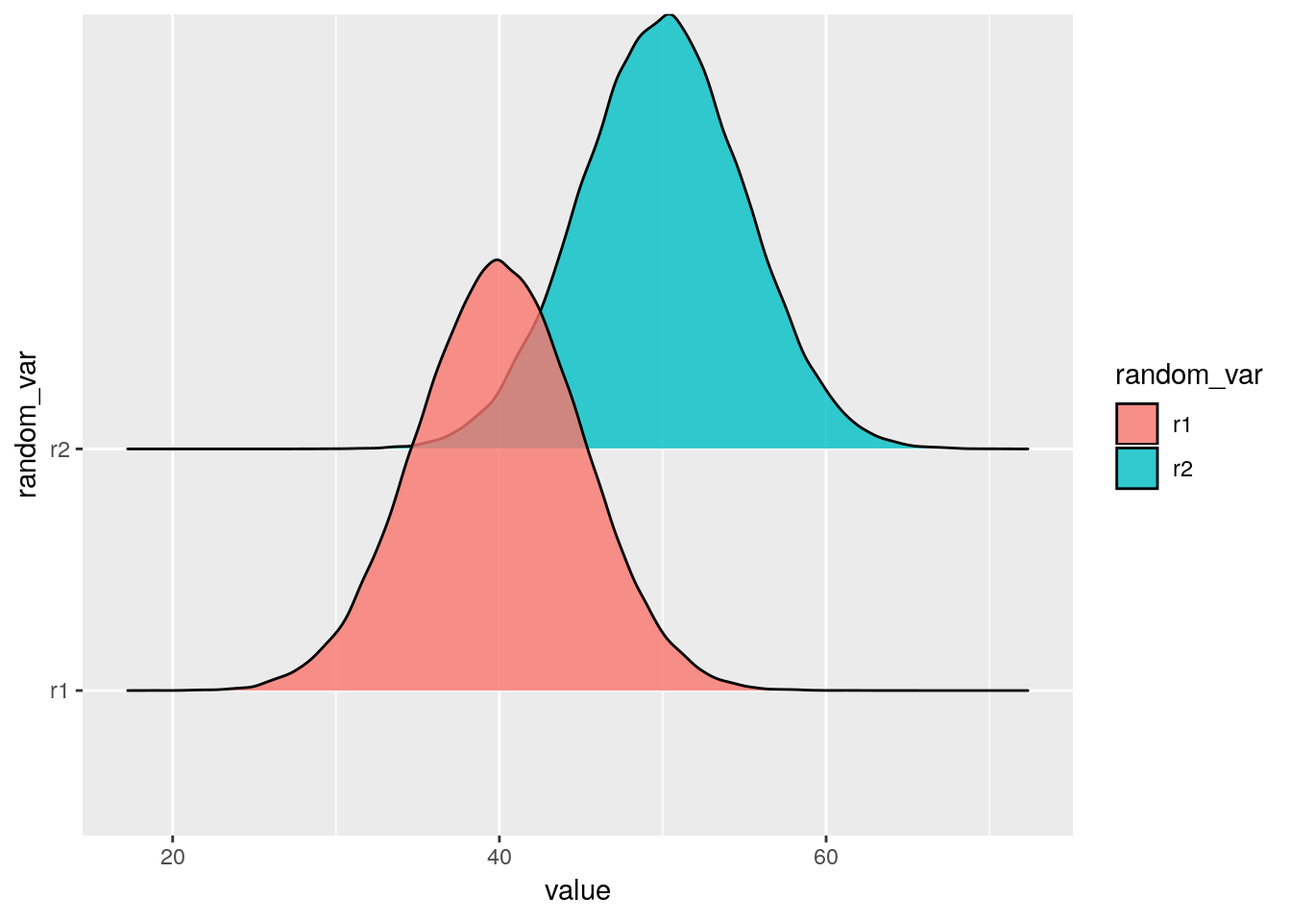
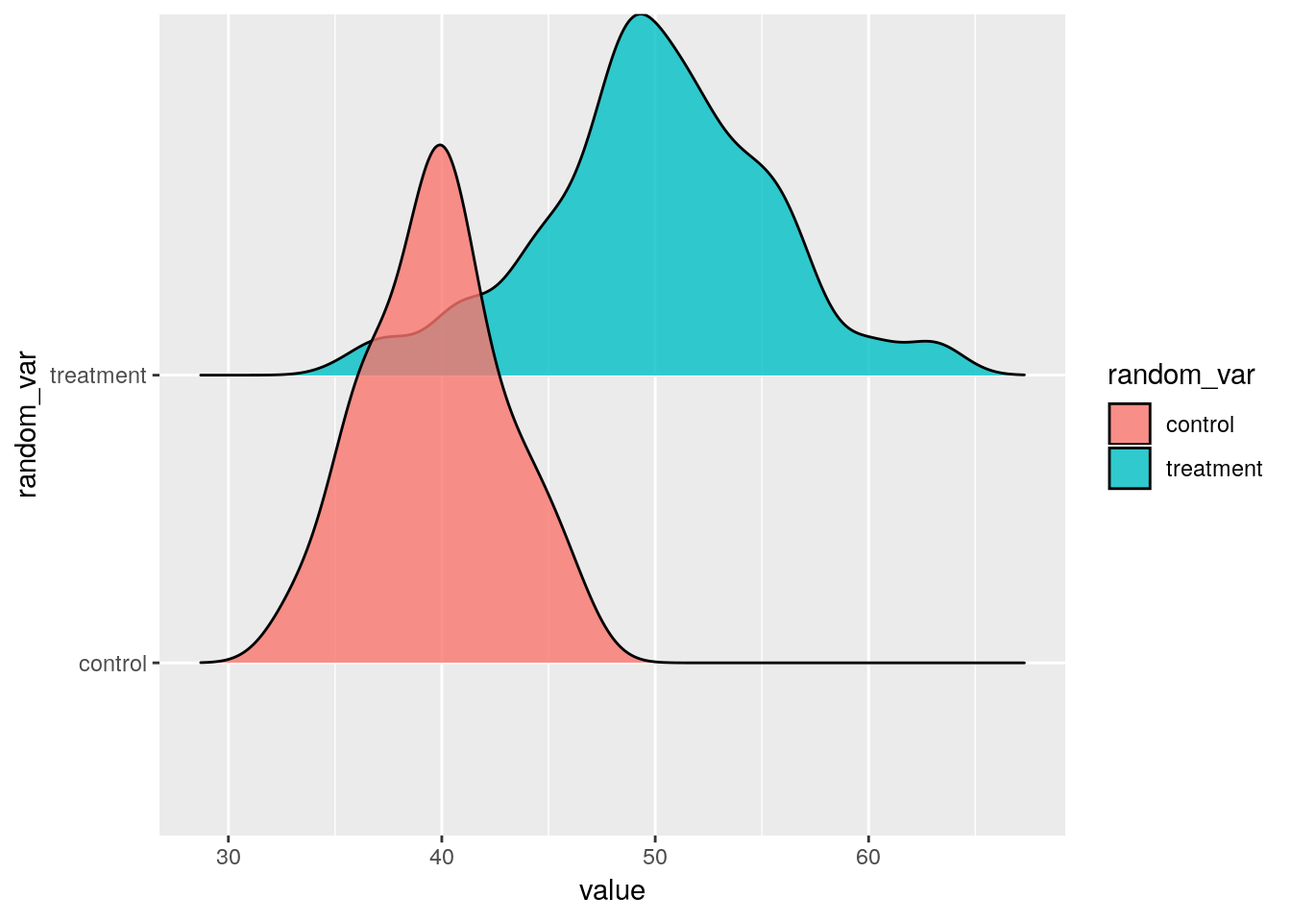
commit

diff --git a/public/rmarkdown-libs/plotly-binding/lib/typedarray (opoyserc@gmail.com)/typedarray.min.js b/public/rmarkdown-libs/plotly-binding/lib/typedarray (opoyserc@gmail.com)/typedarray.min.js
@@ -1,0 +1,1 @@
+(function(global){"use strict";var undefined=void 0;var MAX_ARRAY_LENGTH=1e5;function Type(v){switch(typeof v){case"undefined":return"undefined";case"boolean":return"boolean";case"number":return"number";case"string":return"string";default:return v===null?"null":"object"}}function Class(v){return Object.prototype.toString.call(v).replace(/^\[object *|\]$/g,"")}function IsCallable(o){return typeof o==="function"}function ToObject(v){if(v===null||v===undefined)throw TypeError();return Object(v)}function ToInt32(v){return v>>0}function ToUint32(v){return v>>>0}var LN2=Math.LN2,abs=Math.abs,floor=Math.floor,log=Math.log,max=Math.max,min=Math.min,pow=Math.pow,round=Math.round;(function(){var orig=Object.defineProperty;var dom_only=!function(){try{return Object.defineProperty({},"x",{})}catch(_){return false}}();if(!orig||dom_only){Object.defineProperty=function(o,prop,desc){if(orig)try{return orig(o,prop,desc)}catch(_){}if(o!==Object(o))throw TypeError("Object.defineProperty called on non-object");if(Object.prototype.__defineGetter__&&"get"in desc)Object.prototype.__defineGetter__.call(o,prop,desc.get);if(Object.prototype.__defineSetter__&&"set"in desc)Object.prototype.__defineSetter__.call(o,prop,desc.set);if("value"in desc)o[prop]=desc.value;return o}}})();function makeArrayAccessors(obj){if(obj.length>MAX_ARRAY_LENGTH)throw RangeError("Array too large for polyfill");function makeArrayAccessor(index){Object.defineProperty(obj,index,{get:function(){return obj._getter(index)},set:function(v){obj._setter(index,v)},enumerable:true,configurable:false})}var i;for(i=0;i<obj.length;i+=1){makeArrayAccessor(i)}}function as_signed(value,bits){var s=32-bits;return value<<s>>s}function as_unsigned(value,bits){var s=32-bits;return value<<s>>>s}function packI8(n){return[n&255]}function unpackI8(bytes){return as_signed(bytes[0],8)}function packU8(n){return[n&255]}function unpackU8(bytes){return as_unsigned(bytes[0],8)}function packU8Clamped(n){n=round(Number(n));return[n<0?0:n>255?255:n&255]}function packI16(n){return[n>>8&255,n&255]}function unpackI16(bytes){return as_signed(bytes[0]<<8|bytes[1],16)}function packU16(n){return[n>>8&255,n&255]}function unpackU16(bytes){return as_unsigned(bytes[0]<<8|bytes[1],16)}function packI32(n){return[n>>24&255,n>>16&255,n>>8&255,n&255]}function unpackI32(bytes){return as_signed(bytes[0]<<24|bytes[1]<<16|bytes[2]<<8|bytes[3],32)}function packU32(n){return[n>>24&255,n>>16&255,n>>8&255,n&255]}function unpackU32(bytes){return as_unsigned(bytes[0]<<24|bytes[1]<<16|bytes[2]<<8|bytes[3],32)}function packIEEE754(v,ebits,fbits){var bias=(1<<ebits-1)-1,s,e,f,ln,i,bits,str,bytes;function roundToEven(n){var w=floor(n),f=n-w;if(f<.5)return w;if(f>.5)return w+1;return w%2?w+1:w}if(v!==v){e=(1<<ebits)-1;f=pow(2,fbits-1);s=0}else if(v===Infinity||v===-Infinity){e=(1<<ebits)-1;f=0;s=v<0?1:0}else if(v===0){e=0;f=0;s=1/v===-Infinity?1:0}else{s=v<0;v=abs(v);if(v>=pow(2,1-bias)){e=min(floor(log(v)/LN2),1023);f=roundToEven(v/pow(2,e)*pow(2,fbits));if(f/pow(2,fbits)>=2){e=e+1;f=1}if(e>bias){e=(1<<ebits)-1;f=0}else{e=e+bias;f=f-pow(2,fbits)}}else{e=0;f=roundToEven(v/pow(2,1-bias-fbits))}}bits=[];for(i=fbits;i;i-=1){bits.push(f%2?1:0);f=floor(f/2)}for(i=ebits;i;i-=1){bits.push(e%2?1:0);e=floor(e/2)}bits.push(s?1:0);bits.reverse();str=bits.join("");bytes=[];while(str.length){bytes.push(parseInt(str.substring(0,8),2));str=str.substring(8)}return bytes}function unpackIEEE754(bytes,ebits,fbits){var bits=[],i,j,b,str,bias,s,e,f;for(i=bytes.length;i;i-=1){b=bytes[i-1];for(j=8;j;j-=1){bits.push(b%2?1:0);b=b>>1}}bits.reverse();str=bits.join("");bias=(1<<ebits-1)-1;s=parseInt(str.substring(0,1),2)?-1:1;e=parseInt(str.substring(1,1+ebits),2);f=parseInt(str.substring(1+ebits),2);if(e===(1<<ebits)-1){return f!==0?NaN:s*Infinity}else if(e>0){return s*pow(2,e-bias)*(1+f/pow(2,fbits))}else if(f!==0){return s*pow(2,-(bias-1))*(f/pow(2,fbits))}else{return s<0?-0:0}}function unpackF64(b){return unpackIEEE754(b,11,52)}function packF64(v){return packIEEE754(v,11,52)}function unpackF32(b){return unpackIEEE754(b,8,23)}function packF32(v){return packIEEE754(v,8,23)}(function(){function ArrayBuffer(length){length=ToInt32(length);if(length<0)throw RangeError("ArrayBuffer size is not a small enough positive integer.");Object.defineProperty(this,"byteLength",{value:length});Object.defineProperty(this,"_bytes",{value:Array(length)});for(var i=0;i<length;i+=1)this._bytes[i]=0}global.ArrayBuffer=global.ArrayBuffer||ArrayBuffer;function $TypedArray$(){if(!arguments.length||typeof arguments[0]!=="object"){return function(length){length=ToInt32(length);if(length<0)throw RangeError("length is not a small enough positive integer.");Object.defineProperty(this,"length",{value:length});Object.defineProperty(this,"byteLength",{value:length*this.BYTES_PER_ELEMENT});Object.defineProperty(this,"buffer",{value:new ArrayBuffer(this.byteLength)});Object.defineProperty(this,"byteOffset",{value:0})}.apply(this,arguments)}if(arguments.length>=1&&Type(arguments[0])==="object"&&arguments[0]instanceof $TypedArray$){return function(typedArray){if(this.constructor!==typedArray.constructor)throw TypeError();var byteLength=typedArray.length*this.BYTES_PER_ELEMENT;Object.defineProperty(this,"buffer",{value:new ArrayBuffer(byteLength)});Object.defineProperty(this,"byteLength",{value:byteLength});Object.defineProperty(this,"byteOffset",{value:0});Object.defineProperty(this,"length",{value:typedArray.length});for(var i=0;i<this.length;i+=1)this._setter(i,typedArray._getter(i))}.apply(this,arguments)}if(arguments.length>=1&&Type(arguments[0])==="object"&&!(arguments[0]instanceof $TypedArray$)&&!(arguments[0]instanceof ArrayBuffer||Class(arguments[0])==="ArrayBuffer")){return function(array){var byteLength=array.length*this.BYTES_PER_ELEMENT;Object.defineProperty(this,"buffer",{value:new ArrayBuffer(byteLength)});Object.defineProperty(this,"byteLength",{value:byteLength});Object.defineProperty(this,"byteOffset",{value:0});Object.defineProperty(this,"length",{value:array.length});for(var i=0;i<this.length;i+=1){var s=array[i];this._setter(i,Number(s))}}.apply(this,arguments)}if(arguments.length>=1&&Type(arguments[0])==="object"&&(arguments[0]instanceof ArrayBuffer||Class(arguments[0])==="ArrayBuffer")){return function(buffer,byteOffset,length){byteOffset=ToUint32(byteOffset);if(byteOffset>buffer.byteLength)throw RangeError("byteOffset out of range");if(byteOffset%this.BYTES_PER_ELEMENT)throw RangeError("buffer length minus the byteOffset is not a multiple of the element size.");if(length===undefined){var byteLength=buffer.byteLength-byteOffset;if(byteLength%this.BYTES_PER_ELEMENT)throw RangeError("length of buffer minus byteOffset not a multiple of the element size");length=byteLength/this.BYTES_PER_ELEMENT}else{length=ToUint32(length);byteLength=length*this.BYTES_PER_ELEMENT}if(byteOffset+byteLength>buffer.byteLength)throw RangeError("byteOffset and length reference an area beyond the end of the buffer");Object.defineProperty(this,"buffer",{value:buffer});Object.defineProperty(this,"byteLength",{value:byteLength});Object.defineProperty(this,"byteOffset",{value:byteOffset});Object.defineProperty(this,"length",{value:length})}.apply(this,arguments)}throw TypeError()}Object.defineProperty($TypedArray$,"from",{value:function(iterable){return new this(iterable)}});Object.defineProperty($TypedArray$,"of",{value:function(){return new this(arguments)}});var $TypedArrayPrototype$={};$TypedArray$.prototype=$TypedArrayPrototype$;Object.defineProperty($TypedArray$.prototype,"_getter",{value:function(index){if(arguments.length<1)throw SyntaxError("Not enough arguments");index=ToUint32(index);if(index>=this.length)return undefined;var bytes=[],i,o;for(i=0,o=this.byteOffset+index*this.BYTES_PER_ELEMENT;i<this.BYTES_PER_ELEMENT;i+=1,o+=1){bytes.push(this.buffer._bytes[o])}return this._unpack(bytes)}});Object.defineProperty($TypedArray$.prototype,"get",{value:$TypedArray$.prototype._getter});Object.defineProperty($TypedArray$.prototype,"_setter",{value:function(index,value){if(arguments.length<2)throw SyntaxError("Not enough arguments");index=ToUint32(index);if(index>=this.length)return;var bytes=this._pack(value),i,o;for(i=0,o=this.byteOffset+index*this.BYTES_PER_ELEMENT;i<this.BYTES_PER_ELEMENT;i+=1,o+=1){this.buffer._bytes[o]=bytes[i]}}});Object.defineProperty($TypedArray$.prototype,"constructor",{value:$TypedArray$});Object.defineProperty($TypedArray$.prototype,"copyWithin",{value:function(target,start){var end=arguments[2];var o=ToObject(this);var lenVal=o.length;var len=ToUint32(lenVal);len=max(len,0);var relativeTarget=ToInt32(target);var to;if(relativeTarget<0)to=max(len+relativeTarget,0);else to=min(relativeTarget,len);var relativeStart=ToInt32(start);var from;if(relativeStart<0)from=max(len+relativeStart,0);else from=min(relativeStart,len);var relativeEnd;if(end===undefined)relativeEnd=len;else relativeEnd=ToInt32(end);var final;if(relativeEnd<0)final=max(len+relativeEnd,0);else final=min(relativeEnd,len);var count=min(final-from,len-to);var direction;if(from<to&&to<from+count){direction=-1;from=from+count-1;to=to+count-1}else{direction=1}while(count>0){o._setter(to,o._getter(from));from=from+direction;to=to+direction;count=count-1}return o}});Object.defineProperty($TypedArray$.prototype,"every",{value:function(callbackfn){if(this===undefined||this===null)throw TypeError();var t=Object(this);var len=ToUint32(t.length);if(!IsCallable(callbackfn))throw TypeError();var thisArg=arguments[1];for(var i=0;i<len;i++){if(!callbackfn.call(thisArg,t._getter(i),i,t))return false}return true}});Object.defineProperty($TypedArray$.prototype,"fill",{value:function(value){var start=arguments[1],end=arguments[2];var o=ToObject(this);var lenVal=o.length;var len=ToUint32(lenVal);len=max(len,0);var relativeStart=ToInt32(start);var k;if(relativeStart<0)k=max(len+relativeStart,0);else k=min(relativeStart,len);var relativeEnd;if(end===undefined)relativeEnd=len;else relativeEnd=ToInt32(end);var final;if(relativeEnd<0)final=max(len+relativeEnd,0);else final=min(relativeEnd,len);while(k<final){o._setter(k,value);k+=1}return o}});Object.defineProperty($TypedArray$.prototype,"filter",{value:function(callbackfn){if(this===undefined||this===null)throw TypeError();var t=Object(this);var len=ToUint32(t.length);if(!IsCallable(callbackfn))throw TypeError();var res=[];var thisp=arguments[1];for(var i=0;i<len;i++){var val=t._getter(i);if(callbackfn.call(thisp,val,i,t))res.push(val)}return new this.constructor(res)}});Object.defineProperty($TypedArray$.prototype,"find",{value:function(predicate){var o=ToObject(this);var lenValue=o.length;var len=ToUint32(lenValue);if(!IsCallable(predicate))throw TypeError();var t=arguments.length>1?arguments[1]:undefined;var k=0;while(k<len){var kValue=o._getter(k);var testResult=predicate.call(t,kValue,k,o);if(Boolean(testResult))return kValue;++k}return undefined}});Object.defineProperty($TypedArray$.prototype,"findIndex",{value:function(predicate){var o=ToObject(this);var lenValue=o.length;var len=ToUint32(lenValue);if(!IsCallable(predicate))throw TypeError();var t=arguments.length>1?arguments[1]:undefined;var k=0;while(k<len){var kValue=o._getter(k);var testResult=predicate.call(t,kValue,k,o);if(Boolean(testResult))return k;++k}return-1}});Object.defineProperty($TypedArray$.prototype,"forEach",{value:function(callbackfn){if(this===undefined||this===null)throw TypeError();var t=Object(this);var len=ToUint32(t.length);if(!IsCallable(callbackfn))throw TypeError();var thisp=arguments[1];for(var i=0;i<len;i++)callbackfn.call(thisp,t._getter(i),i,t)}});Object.defineProperty($TypedArray$.prototype,"indexOf",{value:function(searchElement){if(this===undefined||this===null)throw TypeError();var t=Object(this);var len=ToUint32(t.length);if(len===0)return-1;var n=0;if(arguments.length>0){n=Number(arguments[1]);if(n!==n){n=0}else if(n!==0&&n!==1/0&&n!==-(1/0)){n=(n>0||-1)*floor(abs(n))}}if(n>=len)return-1;var k=n>=0?n:max(len-abs(n),0);for(;k<len;k++){if(t._getter(k)===searchElement){return k}}return-1}});Object.defineProperty($TypedArray$.prototype,"join",{value:function(separator){if(this===undefined||this===null)throw TypeError();var t=Object(this);var len=ToUint32(t.length);var tmp=Array(len);for(var i=0;i<len;++i)tmp[i]=t._getter(i);return tmp.join(separator===undefined?",":separator)}});Object.defineProperty($TypedArray$.prototype,"lastIndexOf",{value:function(searchElement){if(this===undefined||this===null)throw TypeError();var t=Object(this);var len=ToUint32(t.length);if(len===0)return-1;var n=len;if(arguments.length>1){n=Number(arguments[1]);if(n!==n){n=0}else if(n!==0&&n!==1/0&&n!==-(1/0)){n=(n>0||-1)*floor(abs(n))}}var k=n>=0?min(n,len-1):len-abs(n);for(;k>=0;k--){if(t._getter(k)===searchElement)return k}return-1}});Object.defineProperty($TypedArray$.prototype,"map",{value:function(callbackfn){if(this===undefined||this===null)throw TypeError();var t=Object(this);var len=ToUint32(t.length);if(!IsCallable(callbackfn))throw TypeError();var res=[];res.length=len;var thisp=arguments[1];for(var i=0;i<len;i++)res[i]=callbackfn.call(thisp,t._getter(i),i,t);return new this.constructor(res)}});Object.defineProperty($TypedArray$.prototype,"reduce",{value:function(callbackfn){if(this===undefined||this===null)throw TypeError();var t=Object(this);var len=ToUint32(t.length);if(!IsCallable(callbackfn))throw TypeError();if(len===0&&arguments.length===1)throw TypeError();var k=0;var accumulator;if(arguments.length>=2){accumulator=arguments[1]}else{accumulator=t._getter(k++)}while(k<len){accumulator=callbackfn.call(undefined,accumulator,t._getter(k),k,t);k++}return accumulator}});Object.defineProperty($TypedArray$.prototype,"reduceRight",{value:function(callbackfn){if(this===undefined||this===null)throw TypeError();var t=Object(this);var len=ToUint32(t.length);if(!IsCallable(callbackfn))throw TypeError();if(len===0&&arguments.length===1)throw TypeError();var k=len-1;var accumulator;if(arguments.length>=2){accumulator=arguments[1]}else{accumulator=t._getter(k--)}while(k>=0){accumulator=callbackfn.call(undefined,accumulator,t._getter(k),k,t);k--}return accumulator}});Object.defineProperty($TypedArray$.prototype,"reverse",{value:function(){if(this===undefined||this===null)throw TypeError();var t=Object(this);var len=ToUint32(t.length);var half=floor(len/2);for(var i=0,j=len-1;i<half;++i,--j){var tmp=t._getter(i);t._setter(i,t._getter(j));t._setter(j,tmp)}return t}});Object.defineProperty($TypedArray$.prototype,"set",{value:function(index,value){if(arguments.length<1)throw SyntaxError("Not enough arguments");var array,sequence,offset,len,i,s,d,byteOffset,byteLength,tmp;if(typeof arguments[0]==="object"&&arguments[0].constructor===this.constructor){array=arguments[0];offset=ToUint32(arguments[1]);if(offset+array.length>this.length){throw RangeError("Offset plus length of array is out of range")}byteOffset=this.byteOffset+offset*this.BYTES_PER_ELEMENT;byteLength=array.length*this.BYTES_PER_ELEMENT;if(array.buffer===this.buffer){tmp=[];for(i=0,s=array.byteOffset;i<byteLength;i+=1,s+=1){tmp[i]=array.buffer._bytes[s]}for(i=0,d=byteOffset;i<byteLength;i+=1,d+=1){this.buffer._bytes[d]=tmp[i]}}else{for(i=0,s=array.byteOffset,d=byteOffset;i<byteLength;i+=1,s+=1,d+=1){this.buffer._bytes[d]=array.buffer._bytes[s]}}}else if(typeof arguments[0]==="object"&&typeof arguments[0].length!=="undefined"){sequence=arguments[0];len=ToUint32(sequence.length);offset=ToUint32(arguments[1]);if(offset+len>this.length){throw RangeError("Offset plus length of array is out of range")}for(i=0;i<len;i+=1){s=sequence[i];this._setter(offset+i,Number(s))}}else{throw TypeError("Unexpected argument type(s)")}}});Object.defineProperty($TypedArray$.prototype,"slice",{value:function(start,end){var o=ToObject(this);var lenVal=o.length;var len=ToUint32(lenVal);var relativeStart=ToInt32(start);var k=relativeStart<0?max(len+relativeStart,0):min(relativeStart,len);var relativeEnd=end===undefined?len:ToInt32(end);var final=relativeEnd<0?max(len+relativeEnd,0):min(relativeEnd,len);var count=final-k;var c=o.constructor;var a=new c(count);var n=0;while(k<final){var kValue=o._getter(k);a._setter(n,kValue);++k;++n}return a}});Object.defineProperty($TypedArray$.prototype,"some",{value:function(callbackfn){if(this===undefined||this===null)throw TypeError();var t=Object(this);var len=ToUint32(t.length);if(!IsCallable(callbackfn))throw TypeError();var thisp=arguments[1];for(var i=0;i<len;i++){if(callbackfn.call(thisp,t._getter(i),i,t)){return true}}return false}});Object.defineProperty($TypedArray$.prototype,"sort",{value:function(comparefn){if(this===undefined||this===null)throw TypeError();var t=Object(this);var len=ToUint32(t.length);var tmp=Array(len);for(var i=0;i<len;++i)tmp[i]=t._getter(i);if(comparefn)tmp.sort(comparefn);else tmp.sort();for(i=0;i<len;++i)t._setter(i,tmp[i]);return t}});Object.defineProperty($TypedArray$.prototype,"subarray",{value:function(start,end){function clamp(v,min,max){return v<min?min:v>max?max:v}start=ToInt32(start);end=ToInt32(end);if(arguments.length<1){start=0}if(arguments.length<2){end=this.length}if(start<0){start=this.length+start}if(end<0){end=this.length+end}start=clamp(start,0,this.length);end=clamp(end,0,this.length);var len=end-start;if(len<0){len=0}return new this.constructor(this.buffer,this.byteOffset+start*this.BYTES_PER_ELEMENT,len)}});function makeTypedArray(elementSize,pack,unpack){var TypedArray=function(){Object.defineProperty(this,"constructor",{value:TypedArray});$TypedArray$.apply(this,arguments);makeArrayAccessors(this)};if("__proto__"in TypedArray){TypedArray.__proto__=$TypedArray$}else{TypedArray.from=$TypedArray$.from;TypedArray.of=$TypedArray$.of}TypedArray.BYTES_PER_ELEMENT=elementSize;var TypedArrayPrototype=function(){};TypedArrayPrototype.prototype=$TypedArrayPrototype$;TypedArray.prototype=new TypedArrayPrototype;Object.defineProperty(TypedArray.prototype,"BYTES_PER_ELEMENT",{value:elementSize});Object.defineProperty(TypedArray.prototype,"_pack",{value:pack});Object.defineProperty(TypedArray.prototype,"_unpack",{value:unpack});return TypedArray}var Int8Array=makeTypedArray(1,packI8,unpackI8);var Uint8Array=makeTypedArray(1,packU8,unpackU8);var Uint8ClampedArray=makeTypedArray(1,packU8Clamped,unpackU8);var Int16Array=makeTypedArray(2,packI16,unpackI16);var Uint16Array=makeTypedArray(2,packU16,unpackU16);var Int32Array=makeTypedArray(4,packI32,unpackI32);var Uint32Array=makeTypedArray(4,packU32,unpackU32);var Float32Array=makeTypedArray(4,packF32,unpackF32);var Float64Array=makeTypedArray(8,packF64,unpackF64);global.Int8Array=global.Int8Array||Int8Array;global.Uint8Array=global.Uint8Array||Uint8Array;global.Uint8ClampedArray=global.Uint8ClampedArray||Uint8ClampedArray;global.Int16Array=global.Int16Array||Int16Array;global.Uint16Array=global.Uint16Array||Uint16Array;global.Int32Array=global.Int32Array||Int32Array;global.Uint32Array=global.Uint32Array||Uint32Array;global.Float32Array=global.Float32Array||Float32Array;global.Float64Array=global.Float64Array||Float64Array})();(function(){function r(array,index){return IsCallable(array.get)?array.get(index):array[index]}var IS_BIG_ENDIAN=function(){var u16array=new Uint16Array([4660]),u8array=new Uint8Array(u16array.buffer);return r(u8array,0)===18}();function DataView(buffer,byteOffset,byteLength){if(!(buffer instanceof ArrayBuffer||Class(buffer)==="ArrayBuffer"))throw TypeError();byteOffset=ToUint32(byteOffset);if(byteOffset>buffer.byteLength)throw RangeError("byteOffset out of range");if(byteLength===undefined)byteLength=buffer.byteLength-byteOffset;else byteLength=ToUint32(byteLength);if(byteOffset+byteLength>buffer.byteLength)throw RangeError("byteOffset and length reference an area beyond the end of the buffer");Object.defineProperty(this,"buffer",{value:buffer});Object.defineProperty(this,"byteLength",{value:byteLength});Object.defineProperty(this,"byteOffset",{value:byteOffset})}function makeGetter(arrayType){return function GetViewValue(byteOffset,littleEndian){byteOffset=ToUint32(byteOffset);if(byteOffset+arrayType.BYTES_PER_ELEMENT>this.byteLength)throw RangeError("Array index out of range");byteOffset+=this.byteOffset;var uint8Array=new Uint8Array(this.buffer,byteOffset,arrayType.BYTES_PER_ELEMENT),bytes=[];for(var i=0;i<arrayType.BYTES_PER_ELEMENT;i+=1)bytes.push(r(uint8Array,i));if(Boolean(littleEndian)===Boolean(IS_BIG_ENDIAN))bytes.reverse();return r(new arrayType(new Uint8Array(bytes).buffer),0)}}Object.defineProperty(DataView.prototype,"getUint8",{value:makeGetter(Uint8Array)});Object.defineProperty(DataView.prototype,"getInt8",{value:makeGetter(Int8Array)});Object.defineProperty(DataView.prototype,"getUint16",{value:makeGetter(Uint16Array)});Object.defineProperty(DataView.prototype,"getInt16",{value:makeGetter(Int16Array)});Object.defineProperty(DataView.prototype,"getUint32",{value:makeGetter(Uint32Array)});Object.defineProperty(DataView.prototype,"getInt32",{value:makeGetter(Int32Array)});Object.defineProperty(DataView.prototype,"getFloat32",{value:makeGetter(Float32Array)});Object.defineProperty(DataView.prototype,"getFloat64",{value:makeGetter(Float64Array)});function makeSetter(arrayType){return function SetViewValue(byteOffset,value,littleEndian){byteOffset=ToUint32(byteOffset);if(byteOffset+arrayType.BYTES_PER_ELEMENT>this.byteLength)throw RangeError("Array index out of range");var typeArray=new arrayType([value]),byteArray=new Uint8Array(typeArray.buffer),bytes=[],i,byteView;for(i=0;i<arrayType.BYTES_PER_ELEMENT;i+=1)bytes.push(r(byteArray,i));if(Boolean(littleEndian)===Boolean(IS_BIG_ENDIAN))bytes.reverse();byteView=new Uint8Array(this.buffer,byteOffset,arrayType.BYTES_PER_ELEMENT);byteView.set(bytes)}}Object.defineProperty(DataView.prototype,"setUint8",{value:makeSetter(Uint8Array)});Object.defineProperty(DataView.prototype,"setInt8",{value:makeSetter(Int8Array)});Object.defineProperty(DataView.prototype,"setUint16",{value:makeSetter(Uint16Array)});Object.defineProperty(DataView.prototype,"setInt16",{value:makeSetter(Int16Array)});Object.defineProperty(DataView.prototype,"setUint32",{value:makeSetter(Uint32Array)});Object.defineProperty(DataView.prototype,"setInt32",{value:makeSetter(Int32Array)});Object.defineProperty(DataView.prototype,"setFloat32",{value:makeSetter(Float32Array)});Object.defineProperty(DataView.prototype,"setFloat64",{value:makeSetter(Float64Array)});global.DataView=global.DataView||DataView})()})(this);

diff --git a/public/2018/07/15/2018-07-15-power-analysis-in-experimental-design/index.html b/public/2018/07/15/2018-07-15-power-analysis-in-experimental-design/index.html
@@ -60,7 +60,7 @@
     },
     "datePublished": "2018-07-15",
     "description": "",
-    "wordCount": 711
+    "wordCount": 1107
   }
 </script>
   
@@ -194,8 +194,8 @@
   <small>
     &middot; by Obryan Poyser
   
-  &middot; Read in about 4 min
-  &middot; (711 words)
+  &middot; Read in about 6 min
+  &middot; (1107 words)
   &middot; 
 <span class="share-box">Share this on:
     <a href="https://www.facebook.com/sharer/sharer.php?u=%2f2018%2f07%2f15%2f2018-07-15-power-analysis-in-experimental-design%2f" onclick="window.open(this.href, 'mywin',
@@ -256,14 +256,16 @@
 <li><p>Type I: Probability of rejecting the null hypothesis given that it is true (false positive). Typically, it is referred as significance level <span class="math inline">\(\alpha\)</span> of the hypothesis test. <span class="math display">\[P(R|H_0=true)\]</span></p></li>
 <li><p>Type II: Probability of not rejecting (accepting for notational purposes) the null hypothesis given that it is false (false negative). Commonly, this decision error is described as <span class="math inline">\(\beta\)</span>. <span class="math display">\[P(A|H_0=false)\]</span></p></li>
 </ul>
-<p>The power is defined as the likelihood of correctly rejecting <span class="math inline">\(H_0\)</span> when it was actually false, or <span class="math inline">\(1-\beta=1-P(A|H_0=false)\)</span>. The rule of thumb dictates a power equivalent of <span class="math inline">\(0.80\)</span>. Having all this information, it will be useful demostrate the use of power with an example for a couple of syntethic random variables.</p>
+<p>The power is defined as the likelihood of correctly rejecting <span class="math inline">\(H_0\)</span> when it was actually false, or <span class="math inline">\(1-\beta=1-P(A|H_0=false)\)</span>. The rule of thumb dictates a power equivalent of <span class="math inline">\(0.80\)</span>. Having all this information, it will be useful demostrate the use of power with an example for a couple of syntethic random variables. Let’s assume we run an experiment to test for the effect of advertising on monthly chocolate consumption, described as two normal distributions with <span class="math inline">\(\mu_1\sim N(40,5)\)</span> and <span class="math inline">\(\mu_2 \sim N(50,5)\)</span> for a control and treatment groups respectively.</p>
 <pre class="r"><code>require(tidyverse)
 require(ggridges)
 
+set.seed(29)
+
 # Two normal random variables with mean 40 and 50 respectively. 
-r1 &lt;- rnorm(n = 100000, 40, sd = 5)
-r2 &lt;- rnorm(n = 100000, 50, sd = 5)
-db &lt;- tibble(r1, r2) %&gt;%
+control &lt;- rnorm(n = 120, 40, sd = 3)
+treatment &lt;- rnorm(n = 120, 50, sd = 5)
+db &lt;- tibble(control, treatment) %&gt;%
     gather(key = &quot;random_var&quot;, value = &quot;value&quot;)
 
 # Graph
@@ -271,7 +273,63 @@ db %&gt;%
 ggplot(aes(value, random_var, fill=random_var))+
     geom_density_ridges(alpha=.8)</code></pre>
 <p><img src="/post/2018-07-15-power-analysis-in-experimental-design_files/figure-html/unnamed-chunk-1-1.png" width="672" /></p>
-<p>Assume that we have <span class="math inline">\(\mu_1\sim N(40,5)\)</span> and <span class="math inline">\(\mu_2 \sim N(50,5)\)</span> for a control and treatment groups respectively. Suppose <span class="math inline">\(\delta\)</span> is the difference between the outcome of both subsamples, in other words <span class="math inline">\(\delta=\mu_1-\mu_2\)</span>. Typically, the null hypothesis <span class="math inline">\(H_0\)</span> is that there are no difference between groups (<span class="math inline">\(\delta=0\)</span>), while the alternative hypothesis <span class="math inline">\(H_1\)</span>.</p>
+<p>From the graph we can conclude that it is unlikely that the advertising is not affecting chocolate consumption since there is a noticeable difference in the means between the two groups. However, <em>ex-ante</em> in a experiment we would want to know the minimum sample size required to detect the effect of advertising, assuming that we have a good guess of the true parameters.</p>
+<p>(it depends on the mean <span class="math inline">\(\mu\)</span>, standard deviation <span class="math inline">\(\sigma\)</span>, observations <span class="math inline">\(n\)</span> and a given significance level <span class="math inline">\(\alpha\)</span>.)</p>
+<p>by calculating the values that make the difference significative. Recall that power is the probability of rejecting the null hypothesis when it is actually false. Moreover, it depends on the mean <span class="math inline">\(\mu\)</span>, standard deviation <span class="math inline">\(\sigma\)</span>, observations <span class="math inline">\(n\)</span> and a given significance level <span class="math inline">\(\alpha\)</span>.</p>
+<p>How many chocolates are neccesary to be consumed in order to reject the null hypothesis that <span class="math inline">\(H_0=40\)</span>?</p>
+<p>We know that at a significance level <span class="math inline">\(\alpha=0.05\)</span> the Z-score is <span class="math inline">\(1.96\)</span>, therefore we are looking for values that fall in the rejection region, that is: <span class="math display">\[
+\begin{align}
+Z\leq &amp; -1.96 \\
+Z\geq &amp; 1.96
+\end{align}
+\]</span> From the Z-score function we are able to calculate the minimum values of <span class="math inline">\(\bar{X}\)</span> in order to find a statistical significant difference:</p>
+<p><span class="math display">\[
+\begin{align}
+\frac{\bar{X}-\mu}{\sigma} &amp; \leq -1.96 &amp; \frac{\bar{X}-\mu}{\sigma} &amp; \geq 1.96 \\
+\newline
+\frac{\bar{X}-40}{3} &amp; \leq -1.96 &amp; \frac{\bar{X}-40}{3} &amp; \geq 1.96 \\
+\end{align}
+\]</span></p>
+<p>As a result the treatment average has to be either <span class="math inline">\(\bar{X} \leq\)</span> 33.495 or <span class="math inline">\(\bar{X} \geq\)</span> 45.919 in order to be statistically different from 40.</p>
+<pre class="r"><code>minF &lt;- function(x){
+    low &lt;- -1.96*sd(x)/sqrt(length(x))+mean(x)
+    up &lt;- 1.96*sd(x)/sqrt(length(x))+mean(x)
+    return(c(low, up))
+}
+
+min2F &lt;- function(mean, sd, n){
+    low &lt;- -1.96*sd/sqrt(n)+mean
+    up &lt;- 1.96*sd/sqrt(n)+mean
+    return(c(low, up))
+}</code></pre>
+<pre class="r"><code>db %&gt;%
+    filter(random_var==&quot;control&quot;) %&gt;%
+    ggplot(aes(value))+
+    geom_density(fill=&quot;black&quot;, alpha=.6)+
+    scale_x_continuous(limits = c(29,50))+
+    geom_vline(xintercept = c(33.4953796, 45.9189023), colour=&quot;red&quot;)</code></pre>
+<p><img src="/post/2018-07-15-power-analysis-in-experimental-design_files/figure-html/unnamed-chunk-4-1.png" width="672" /></p>
+<p>let’s start by calculating the Z-Scores for <code>r1</code></p>
+<pre class="r"><code>zF=function(x){
+    z=(x-mean(x))/(sd(x)^2/sqrt(length(x)))
+    return(z)
+}</code></pre>
+<pre class="r"><code>test &lt;- rnorm(n = 120, 39, sd = 3) %&gt;%
+tibble(v1=., v2=db$value[db$random_var==&quot;control&quot;]) %&gt;% 
+    gather()
+t.test(test$value~test$key)</code></pre>
+<pre><code>## 
+##  Welch Two Sample t-test
+## 
+## data:  test$value by test$key
+## t = -2.5423, df = 237.46, p-value = 0.01165
+## alternative hypothesis: true difference in means is not equal to 0
+## 95 percent confidence interval:
+##  -1.8917160 -0.2399219
+## sample estimates:
+## mean in group v1 mean in group v2 
+##         38.64132         39.70714</code></pre>
+<p>For now, Suppose <span class="math inline">\(\delta\)</span> is the difference between the outcome of both subsamples, in other words <span class="math inline">\(\delta=\mu_1-\mu_2\)</span>. Typically, the null hypothesis <span class="math inline">\(H_0\)</span> is that there are no difference between groups (<span class="math inline">\(\delta=0\)</span>), while the alternative hypothesis <span class="math inline">\(H_1\)</span>.</p>
 <p>In order to estimate the difference, we are going to use the independent t-test given by a formula:</p>
 <p><span class="math display">\[
 t=\frac{\mu_1-\mu_2}{\sqrt{\frac{S_1^2}{N_1}+\frac{S_2^2}{N_2}}}
@@ -280,10 +338,10 @@ t=\frac{\mu_1-\mu_2}{\sqrt{\frac{S_1^2}{N_1}+\frac{S_2^2}{N_2}}}
     group_by(random_var) %&gt;%
     summarise(mean(value), sd(value), n())</code></pre>
 <pre><code>## # A tibble: 2 x 4
-##   random_var `mean(value)` `sd(value)`  `n()`
-##   &lt;chr&gt;              &lt;dbl&gt;       &lt;dbl&gt;  &lt;int&gt;
-## 1 r1                  40.0        5.00 100000
-## 2 r2                  50.0        4.97 100000</code></pre>
+##   random_var `mean(value)` `sd(value)` `n()`
+##   &lt;chr&gt;              &lt;dbl&gt;       &lt;dbl&gt; &lt;int&gt;
+## 1 control             39.7        3.17   120
+## 2 treatment           50.0        5.37   120</code></pre>
 <p><span class="math display">\[
 t=\frac{39.99648-49.99105}{\sqrt{25/100000+25/100000}}=-447
 \]</span> Which can be calculated directly by:</p>
@@ -292,13 +350,13 @@ t=\frac{39.99648-49.99105}{\sqrt{25/100000+25/100000}}=-447
 ##  Welch Two Sample t-test
 ## 
 ## data:  db$value by db$random_var
-## t = -447.39, df = 199990, p-value &lt; 2.2e-16
+## t = -18.104, df = 192.93, p-value &lt; 2.2e-16
 ## alternative hypothesis: true difference in means is not equal to 0
 ## 95 percent confidence interval:
-##  -10.023005  -9.935569
+##  -11.427904  -9.182467
 ## sample estimates:
-## mean in group r1 mean in group r2 
-##         40.00074         49.98003</code></pre>
+##   mean in group control mean in group treatment 
+##                39.70714                50.01233</code></pre>
 <div id="references" class="section level3 unnumbered">
 <h3>References</h3>
 <div id="refs" class="references">

diff --git a/content/post/2018-07-15-power-analysis-in-experimental-design.html b/content/post/2018-07-15-power-analysis-in-experimental-design.html
@@ -37,14 +37,16 @@ bibliography: allrefs.bib
 <li><p>Type I: Probability of rejecting the null hypothesis given that it is true (false positive). Typically, it is referred as significance level <span class="math inline">\(\alpha\)</span> of the hypothesis test. <span class="math display">\[P(R|H_0=true)\]</span></p></li>
 <li><p>Type II: Probability of not rejecting (accepting for notational purposes) the null hypothesis given that it is false (false negative). Commonly, this decision error is described as <span class="math inline">\(\beta\)</span>. <span class="math display">\[P(A|H_0=false)\]</span></p></li>
 </ul>
-<p>The power is defined as the likelihood of correctly rejecting <span class="math inline">\(H_0\)</span> when it was actually false, or <span class="math inline">\(1-\beta=1-P(A|H_0=false)\)</span>. The rule of thumb dictates a power equivalent of <span class="math inline">\(0.80\)</span>. Having all this information, it will be useful demostrate the use of power with an example for a couple of syntethic random variables.</p>
+<p>The power is defined as the likelihood of correctly rejecting <span class="math inline">\(H_0\)</span> when it was actually false, or <span class="math inline">\(1-\beta=1-P(A|H_0=false)\)</span>. The rule of thumb dictates a power equivalent of <span class="math inline">\(0.80\)</span>. Having all this information, it will be useful demostrate the use of power with an example for a couple of syntethic random variables. Let’s assume we run an experiment to test for the effect of advertising on monthly chocolate consumption, described as two normal distributions with <span class="math inline">\(\mu_1\sim N(40,5)\)</span> and <span class="math inline">\(\mu_2 \sim N(50,5)\)</span> for a control and treatment groups respectively.</p>
 <pre class="r"><code>require(tidyverse)
 require(ggridges)
 
+set.seed(29)
+
 # Two normal random variables with mean 40 and 50 respectively. 
-r1 &lt;- rnorm(n = 100000, 40, sd = 5)
-r2 &lt;- rnorm(n = 100000, 50, sd = 5)
-db &lt;- tibble(r1, r2) %&gt;%
+control &lt;- rnorm(n = 120, 40, sd = 3)
+treatment &lt;- rnorm(n = 120, 50, sd = 5)
+db &lt;- tibble(control, treatment) %&gt;%
     gather(key = &quot;random_var&quot;, value = &quot;value&quot;)
 
 # Graph
@@ -52,7 +54,63 @@ db %&gt;%
 ggplot(aes(value, random_var, fill=random_var))+
     geom_density_ridges(alpha=.8)</code></pre>
 <p><img src="/post/2018-07-15-power-analysis-in-experimental-design_files/figure-html/unnamed-chunk-1-1.png" width="672" /></p>
-<p>Assume that we have <span class="math inline">\(\mu_1\sim N(40,5)\)</span> and <span class="math inline">\(\mu_2 \sim N(50,5)\)</span> for a control and treatment groups respectively. Suppose <span class="math inline">\(\delta\)</span> is the difference between the outcome of both subsamples, in other words <span class="math inline">\(\delta=\mu_1-\mu_2\)</span>. Typically, the null hypothesis <span class="math inline">\(H_0\)</span> is that there are no difference between groups (<span class="math inline">\(\delta=0\)</span>), while the alternative hypothesis <span class="math inline">\(H_1\)</span>.</p>
+<p>From the graph we can conclude that it is unlikely that the advertising is not affecting chocolate consumption since there is a noticeable difference in the means between the two groups. However, <em>ex-ante</em> in a experiment we would want to know the minimum sample size required to detect the effect of advertising, assuming that we have a good guess of the true parameters.</p>
+<p>(it depends on the mean <span class="math inline">\(\mu\)</span>, standard deviation <span class="math inline">\(\sigma\)</span>, observations <span class="math inline">\(n\)</span> and a given significance level <span class="math inline">\(\alpha\)</span>.)</p>
+<p>by calculating the values that make the difference significative. Recall that power is the probability of rejecting the null hypothesis when it is actually false. Moreover, it depends on the mean <span class="math inline">\(\mu\)</span>, standard deviation <span class="math inline">\(\sigma\)</span>, observations <span class="math inline">\(n\)</span> and a given significance level <span class="math inline">\(\alpha\)</span>.</p>
+<p>How many chocolates are neccesary to be consumed in order to reject the null hypothesis that <span class="math inline">\(H_0=40\)</span>?</p>
+<p>We know that at a significance level <span class="math inline">\(\alpha=0.05\)</span> the Z-score is <span class="math inline">\(1.96\)</span>, therefore we are looking for values that fall in the rejection region, that is: <span class="math display">\[
+\begin{align}
+Z\leq &amp; -1.96 \\
+Z\geq &amp; 1.96
+\end{align}
+\]</span> From the Z-score function we are able to calculate the minimum values of <span class="math inline">\(\bar{X}\)</span> in order to find a statistical significant difference:</p>
+<p><span class="math display">\[
+\begin{align}
+\frac{\bar{X}-\mu}{\sigma} &amp; \leq -1.96 &amp; \frac{\bar{X}-\mu}{\sigma} &amp; \geq 1.96 \\
+\newline
+\frac{\bar{X}-40}{3} &amp; \leq -1.96 &amp; \frac{\bar{X}-40}{3} &amp; \geq 1.96 \\
+\end{align}
+\]</span></p>
+<p>As a result the treatment average has to be either <span class="math inline">\(\bar{X} \leq\)</span> 33.495 or <span class="math inline">\(\bar{X} \geq\)</span> 45.919 in order to be statistically different from 40.</p>
+<pre class="r"><code>minF &lt;- function(x){
+    low &lt;- -1.96*sd(x)/sqrt(length(x))+mean(x)
+    up &lt;- 1.96*sd(x)/sqrt(length(x))+mean(x)
+    return(c(low, up))
+}
+
+min2F &lt;- function(mean, sd, n){
+    low &lt;- -1.96*sd/sqrt(n)+mean
+    up &lt;- 1.96*sd/sqrt(n)+mean
+    return(c(low, up))
+}</code></pre>
+<pre class="r"><code>db %&gt;%
+    filter(random_var==&quot;control&quot;) %&gt;%
+    ggplot(aes(value))+
+    geom_density(fill=&quot;black&quot;, alpha=.6)+
+    scale_x_continuous(limits = c(29,50))+
+    geom_vline(xintercept = c(33.4953796, 45.9189023), colour=&quot;red&quot;)</code></pre>
+<p><img src="/post/2018-07-15-power-analysis-in-experimental-design_files/figure-html/unnamed-chunk-4-1.png" width="672" /></p>
+<p>let’s start by calculating the Z-Scores for <code>r1</code></p>
+<pre class="r"><code>zF=function(x){
+    z=(x-mean(x))/(sd(x)^2/sqrt(length(x)))
+    return(z)
+}</code></pre>
+<pre class="r"><code>test &lt;- rnorm(n = 120, 39, sd = 3) %&gt;%
+tibble(v1=., v2=db$value[db$random_var==&quot;control&quot;]) %&gt;% 
+    gather()
+t.test(test$value~test$key)</code></pre>
+<pre><code>## 
+##  Welch Two Sample t-test
+## 
+## data:  test$value by test$key
+## t = -2.5423, df = 237.46, p-value = 0.01165
+## alternative hypothesis: true difference in means is not equal to 0
+## 95 percent confidence interval:
+##  -1.8917160 -0.2399219
+## sample estimates:
+## mean in group v1 mean in group v2 
+##         38.64132         39.70714</code></pre>
+<p>For now, Suppose <span class="math inline">\(\delta\)</span> is the difference between the outcome of both subsamples, in other words <span class="math inline">\(\delta=\mu_1-\mu_2\)</span>. Typically, the null hypothesis <span class="math inline">\(H_0\)</span> is that there are no difference between groups (<span class="math inline">\(\delta=0\)</span>), while the alternative hypothesis <span class="math inline">\(H_1\)</span>.</p>
 <p>In order to estimate the difference, we are going to use the independent t-test given by a formula:</p>
 <p><span class="math display">\[
 t=\frac{\mu_1-\mu_2}{\sqrt{\frac{S_1^2}{N_1}+\frac{S_2^2}{N_2}}}
@@ -61,10 +119,10 @@ t=\frac{\mu_1-\mu_2}{\sqrt{\frac{S_1^2}{N_1}+\frac{S_2^2}{N_2}}}
     group_by(random_var) %&gt;%
     summarise(mean(value), sd(value), n())</code></pre>
 <pre><code>## # A tibble: 2 x 4
-##   random_var `mean(value)` `sd(value)`  `n()`
-##   &lt;chr&gt;              &lt;dbl&gt;       &lt;dbl&gt;  &lt;int&gt;
-## 1 r1                  40.0        5.00 100000
-## 2 r2                  50.0        4.97 100000</code></pre>
+##   random_var `mean(value)` `sd(value)` `n()`
+##   &lt;chr&gt;              &lt;dbl&gt;       &lt;dbl&gt; &lt;int&gt;
+## 1 control             39.7        3.17   120
+## 2 treatment           50.0        5.37   120</code></pre>
 <p><span class="math display">\[
 t=\frac{39.99648-49.99105}{\sqrt{25/100000+25/100000}}=-447
 \]</span> Which can be calculated directly by:</p>
@@ -73,13 +131,13 @@ t=\frac{39.99648-49.99105}{\sqrt{25/100000+25/100000}}=-447
 ##  Welch Two Sample t-test
 ## 
 ## data:  db$value by db$random_var
-## t = -447.39, df = 199990, p-value &lt; 2.2e-16
+## t = -18.104, df = 192.93, p-value &lt; 2.2e-16
 ## alternative hypothesis: true difference in means is not equal to 0
 ## 95 percent confidence interval:
-##  -10.023005  -9.935569
+##  -11.427904  -9.182467
 ## sample estimates:
-## mean in group r1 mean in group r2 
-##         40.00074         49.98003</code></pre>
+##   mean in group control mean in group treatment 
+##                39.70714                50.01233</code></pre>
 <div id="references" class="section level3 unnumbered">
 <h3>References</h3>
 <div id="refs" class="references">
